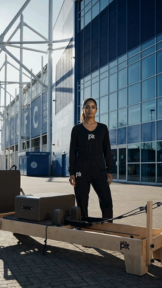
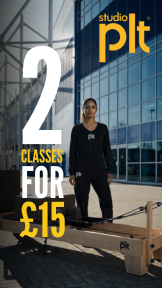
image replaced

Changed region(s): [[0.0, 0.0, 0.4012, 1.0], [0.5864, 0.0312, 0.9259, 0.2188], [0.1235, 0.875, 0.1543, 0.9062]]

diff --git a/src/data/clients.js b/src/data/clients.js
@@ -15,7 +15,7 @@ const FILES = [
   "PAK FOODS logo.png",
   "Radio FM logo.png",
   "Stoneycroft Pharmacy logo.png",
-  "The Pantry logo.png",
+  "post_office.png",
   "UMRAH SUPERMARKET logo.png",
   "US-2605-3P-12S-EID MUBARAK-HR WD-V1.png",
   "WhatsApp Image 2026-06-06 at 2.15.21 PM.png",